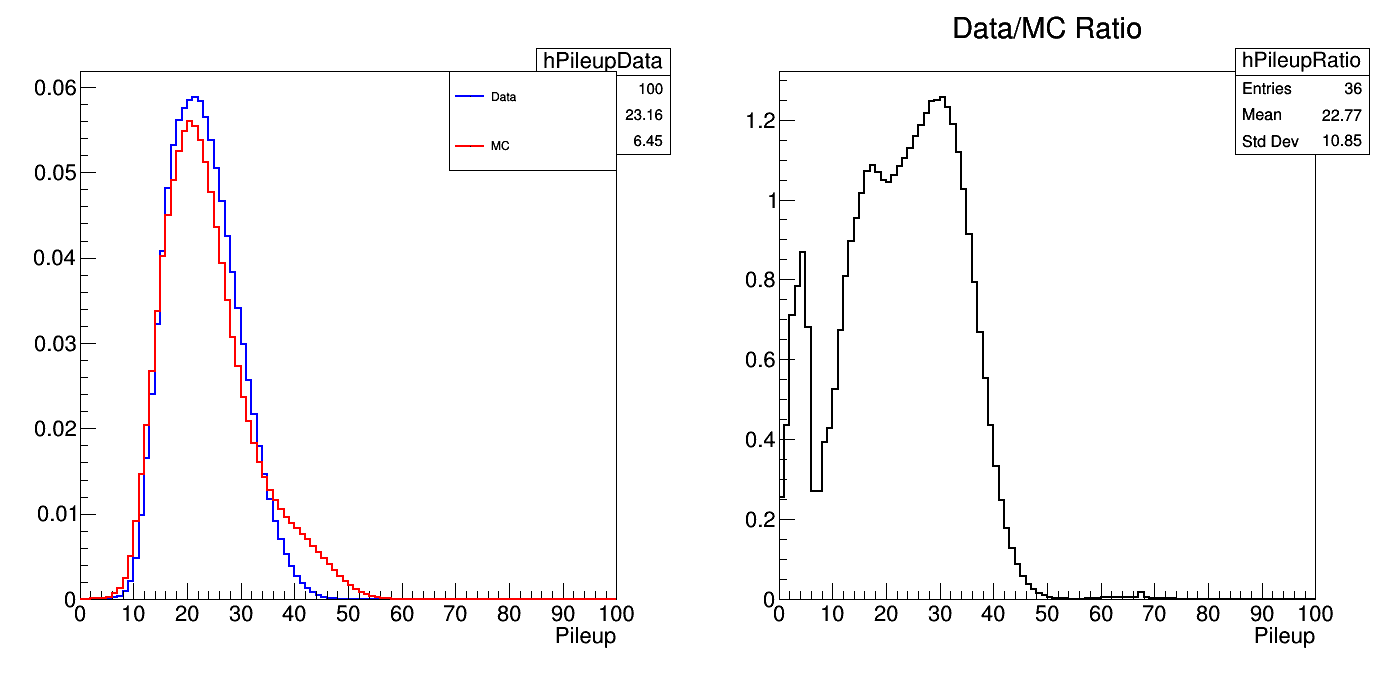
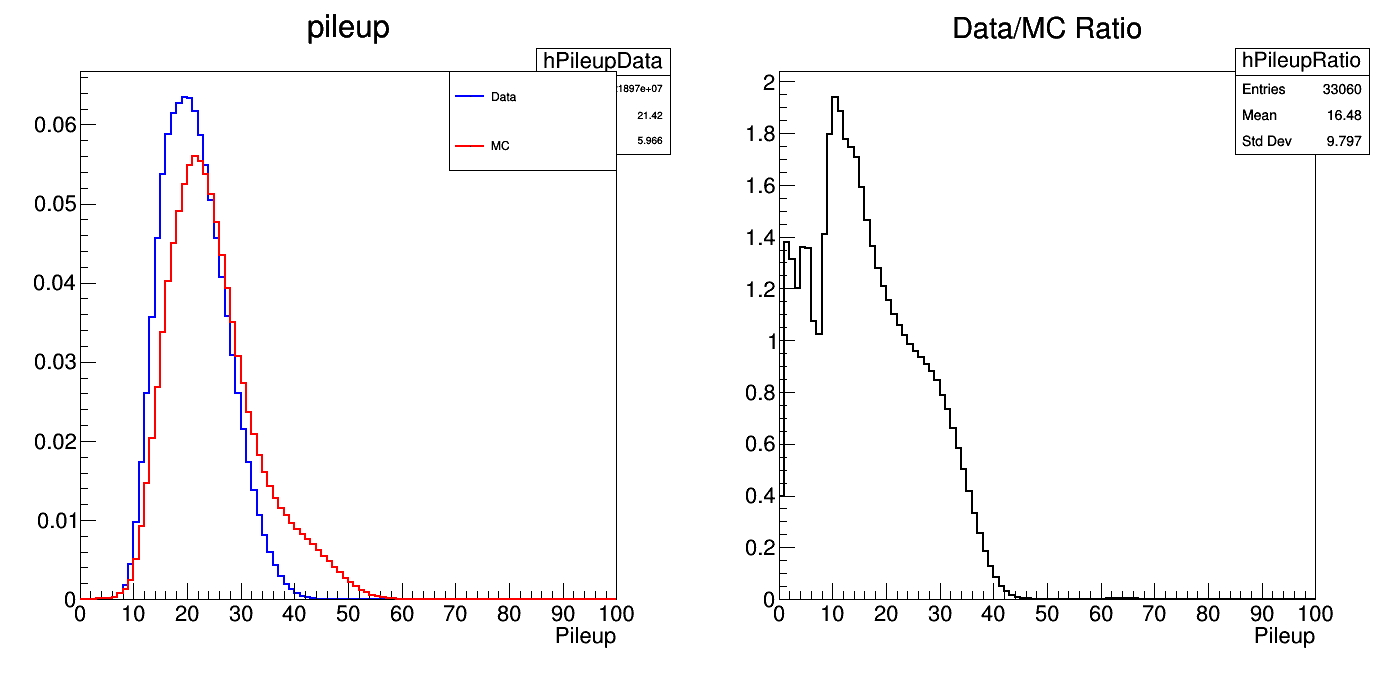
pileup closure plot

diff --git a/closureTestPileup.C b/closureTestPileup.C
@@ -35,6 +35,9 @@ bool passDileptonKinematics(double pt1,double pt2,double eta1,double eta2);
 
 //Defining variables and arrays
 const int MPSIZE = 2000;
+const int nPileupBins = 100;
+const float pileupBinLow = 0;
+const float pileupBinHigh = nPileupBins;
 int Nelectrons, HLT_ntrig, nVertices, nPileUp;
 double GENEvt_weight;
 double Electron_pT[MPSIZE], Electron_eta[MPSIZE], Electron_phi[MPSIZE];
@@ -387,12 +390,12 @@ void closureTestPileup()
   TFile*file = new TFile("./plots/pileup.root");
   TH1F*hDatanPileup = (TH1F*)file->Get("hPileupData");
   hDatanPileup->SetLineColor(kBlack);
-  TH1F*hMCnPileup = new TH1F("hMCnPileup","",75,0,75);
+  TH1F*hMCnPileup = new TH1F("hMCnPileup","",nPileupBins,pileupBinLow,pileupBinHigh);
   hMCnPileup->SetMarkerStyle(20);
   hMCnPileup->SetMarkerColor(kRed);
   hMCnPileup->SetLineColor(kRed);
   hMCnPileup->SetTitle("Pileup Unweighted");
-  TH1F*hMCnPileupWeight = new TH1F("hMCnPileupWeight","",75,0,75);
+  TH1F*hMCnPileupWeight = new TH1F("hMCnPileupWeight","",nPileupBins,pileupBinLow,pileupBinHigh);
   hMCnPileupWeight->SetMarkerStyle(20);
   hMCnPileupWeight->SetMarkerColor(kRed); 
   hMCnPileupWeight->SetLineColor(kRed);
@@ -420,78 +423,14 @@ void closureTestPileup()
     if(iChain==DataRunB||iChain==DataRunC||iChain==DataRunD||iChain==DataRunE||iChain==DataRunF||
        iChain==DataRunG||iChain==DataRunH) isMC = kFALSE; //determine if chain is MC or Data
     else isMC = kTRUE;
-
-    cout << endl;
-    cout << "Processing chain: " << dirNames[iChain] << endl;
-    cout << endl;
-    
-    //Determine which sample is being looped over
-    if(!isMC) sampleCategory = DATA;
-    else if (isMC){
-      if(iChain==wJets||iChain==QCD20to30||iChain==QCD30to50||iChain==QCD50to80
-	 ||iChain==QCD80to120||iChain==QCD120to170||iChain==QCD170to300||iChain==QCD300toInf) 
-	sampleCategory = FAKES;
-      else if(iChain==WW||iChain==ZZ||iChain==WZ||iChain==WWTo2L2Nu||iChain==ZZTo4L||iChain==WZTo3LNu||
-	      iChain==TAUTAU10to50||iChain==TAUTAU50to100||iChain==TAUTAU100to200||iChain==TAUTAU200to400||
-	      iChain==TAUTAU400to500||iChain==TAUTAU500to700||iChain==TAUTAU700to800||iChain==TAUTAU800to1000||
-	      iChain==TAUTAU1000to1500||iChain==TAUTAU1500to2000||iChain==TAUTAU2000to3000)
-	sampleCategory = EW;
-      else if(iChain==tt0to700||iChain==tt700to1000||iChain==tt1000toInf||iChain==tW||iChain==tbarW)
-	sampleCategory = TOPS;
-      else if(iChain==EE10to50||iChain==EE50to100||iChain==EE100to200||iChain==EE200to400||
-	      iChain==EE400to500||iChain==EE500to700||iChain==EE700to800||iChain==EE800to1000||
-	      iChain==EE1000to1500||iChain==EE1500to2000||iChain==EE2000to3000)
-	sampleCategory = EE;
-    }
-    if(sampleCategory==UNDEF) {
-      cout << "Tried to load a chain which does not exist!" << endl;
-      return;
-    }
-    
-    nentries = chains[iChain]->GetEntries();
-    xSecWeight=lumi*(xSec[iChain]/1.0);     
-    
-    //Finding normalized genWeights,sums,variances
-    sumGenWeight = 0.0;
-    sumRawGenWeight = 0.0;
-    varGenWeight = 0.0;
-    if(isMC){ //Only MonteCarlo gets gen weights
-      for(Long64_t i=0;i<nentries;i++){
-	localEntry = chains[iChain]->LoadTree(i);
-	b_GENEvt_weight->GetEntry(localEntry);
-	genWeight = GENEvt_weight/fabs(GENEvt_weight);	//normalized genweight
-	sumGenWeight += genWeight;
-	varGenWeight += GENEvt_weight*GENEvt_weight; //variance of genweights
-	sumRawGenWeight += GENEvt_weight; 
-      }          
-      nEffective = (sumRawGenWeight*sumRawGenWeight)/varGenWeight;
-      lumiEffective = nEffective/xSec[iChain];
      
-    }//end if isMC
-    
     //Event loop
+    nentries = chains[iChain]->GetEntries();   
     for(Long64_t i=0;i<nentries;i++) {      
       counter(count,totalentries);
       count = count+1; 
-      chains[iChain]->GetEntry(i);
-      if(Nelectrons<2) continue;   	  
-      
-      //HLT cut
-      trigNameSize = pHLT_trigName->size();
-      bool passHLT = kFALSE;	  
-      for(int iHLT=0;iHLT<trigNameSize;iHLT++) {
-	trigName = pHLT_trigName->at(iHLT);	  
-	if(trigName.CompareTo(compareHLT)==0) {
-	  if(HLT_trigFired[iHLT]==1) {
-	    passHLT = kTRUE;	
-	  }
-	  else {
-	    passHLT = kFALSE;
-	  }		     
-	  break; 
-	}
-      } 
-      if(!passHLT) continue;
+      chains[iChain]->GetEntry(i);	  	  
+
       pileupWeight = hPileupRatio->GetBinContent(hPileupRatio->FindBin(nPileUp));
       genWeight = GENEvt_weight/fabs(GENEvt_weight);
       genWeight = genWeight/sumGenWeight;      
@@ -507,7 +446,6 @@ void closureTestPileup()
 	hMCnPileup->Fill(nPileUp);
 	hMCnPileupWeight->Fill(nPileUp,pileupWeight);
       }
-
     }//end event loop   
   }//end chain loop 
 
@@ -515,10 +453,15 @@ void closureTestPileup()
   double scaleData = norm/hDatanPileup->Integral();
   double scaleMC = norm/hMCnPileup->Integral();
   double scaleMCWeight = norm/hMCnPileupWeight->Integral();
-
   hDatanPileup->Scale(scaleData);
   hMCnPileup->Scale(scaleMC);
   hMCnPileupWeight->Scale(scaleMCWeight);
+  for(int i=1;i<76;i++){
+    double binN = i;
+    double valueBefore = hMCnPileup->GetBinContent(i);
+    double valueAfter = hMCnPileupWeight->GetBinContent(i);
+    double valueData = hDatanPileup->GetBinContent(i);
+  }
 
   hDatanPileup->GetXaxis()->SetRangeUser(0,75);
   hMCnPileup->GetXaxis()->SetRangeUser(0,75);
@@ -539,6 +482,7 @@ void closureTestPileup()
   hDatanPileup->Draw("hist");
   hMCnPileupWeight->Draw("P,same");
     
+  c->SaveAs("./plots/pileupClosureTest.png");
   totaltime.Stop();
   Double_t TotalCPURunTime = totaltime.CpuTime();
   Double_t TotalRunTime = totaltime.RealTime();
